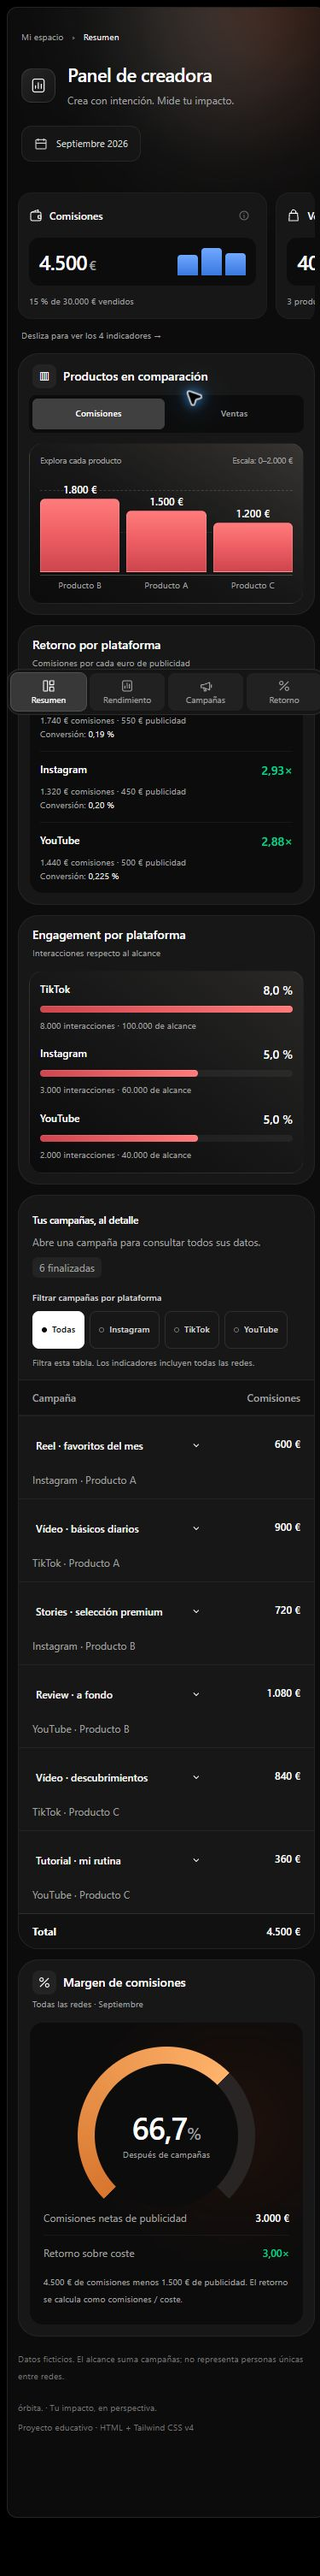
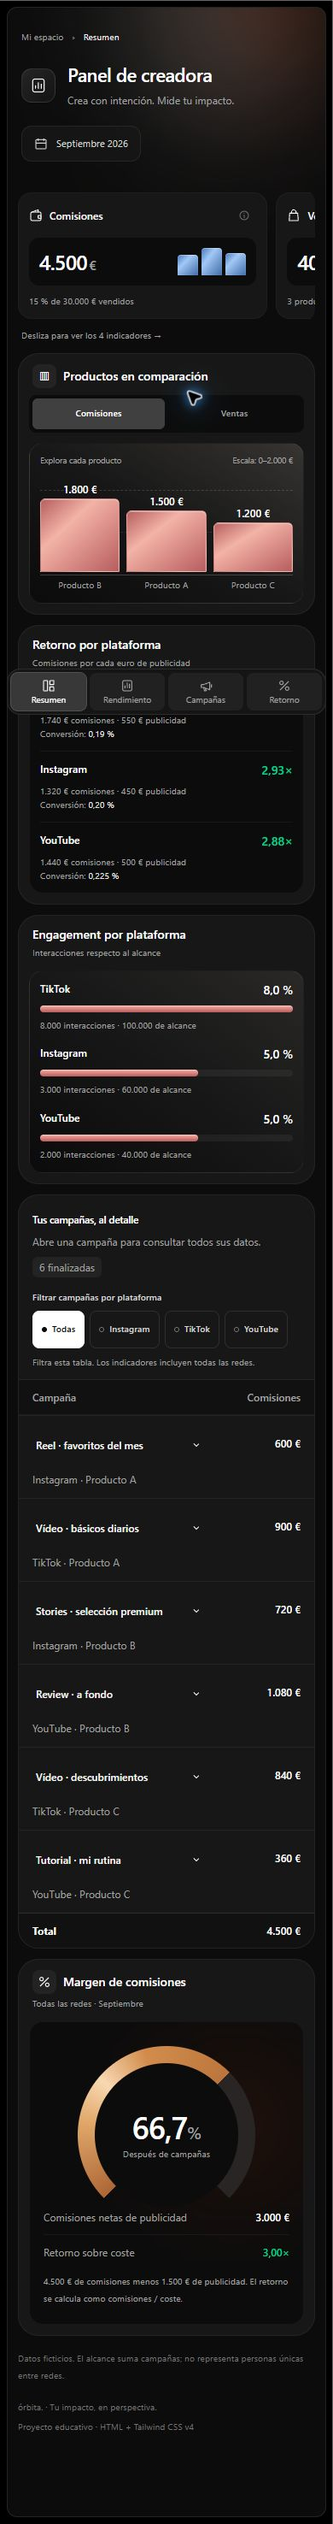
style: give chart colors a metallic finish

diff --git a/index.html b/index.html
@@ -14,7 +14,7 @@
     <script src="https://cdn.jsdelivr.net/npm/@tailwindcss/browser@4"></script>
   </head>
   <body
-    class="p-2 font-sans text-white antialiased selection:bg-linear-to-b from-[#ba96ff] to-[#8c5ce0]/40 sm:overflow-hidden sm:p-3"
+    class="p-2 font-sans text-white antialiased selection:bg-linear-to-br from-[#7959ad] via-[#d1b7f2] via-35% to-[#77539f] shadow-[inset_0_1px_0_0_#ffffff55,inset_-1px_0_0_0_#ffffff15]/40 sm:overflow-hidden sm:p-3"
   >
     <a
       href="#contenido"
@@ -261,7 +261,7 @@
                 >
                   4.500<span class="ml-0.5 text-base text-neutral-400">€</span>
                 </span>
-                <span role="group" aria-label="Comisiones por plataforma" class="-my-1.5 flex h-11 w-20 shrink-0 items-end gap-1"><button id="mini-commission-0" type="button" aria-label="Comisiones en Instagram: 1.320 €" aria-describedby="tip-mini-commission-0" popovertarget="tip-mini-commission-0" class="flex h-11 min-w-0 flex-1 items-end rounded-sm pb-1.5 hover:brightness-110 focus-visible:outline-2 focus-visible:outline-offset-2 focus-visible:outline-white [anchor-name:--mini-commission-0]"><span aria-hidden="true" class="flex h-8 w-full items-end"><span class="block w-full rounded-t-sm bg-linear-to-b from-[#70a7ff] to-[#3979df] h-[75.86%]"></span></span></button><button id="mini-commission-1" type="button" aria-label="Comisiones en TikTok: 1.740 €" aria-describedby="tip-mini-commission-1" popovertarget="tip-mini-commission-1" class="flex h-11 min-w-0 flex-1 items-end rounded-sm pb-1.5 hover:brightness-110 focus-visible:outline-2 focus-visible:outline-offset-2 focus-visible:outline-white [anchor-name:--mini-commission-1]"><span aria-hidden="true" class="flex h-8 w-full items-end"><span class="block w-full rounded-t-sm bg-linear-to-b from-[#70a7ff] to-[#3979df] h-[100%]"></span></span></button><button id="mini-commission-2" type="button" aria-label="Comisiones en YouTube: 1.440 €" aria-describedby="tip-mini-commission-2" popovertarget="tip-mini-commission-2" class="flex h-11 min-w-0 flex-1 items-end rounded-sm pb-1.5 hover:brightness-110 focus-visible:outline-2 focus-visible:outline-offset-2 focus-visible:outline-white [anchor-name:--mini-commission-2]"><span aria-hidden="true" class="flex h-8 w-full items-end"><span class="block w-full rounded-t-sm bg-linear-to-b from-[#70a7ff] to-[#3979df] h-[82.76%]"></span></span></button></span></div>
+                <span role="group" aria-label="Comisiones por plataforma" class="-my-1.5 flex h-11 w-20 shrink-0 items-end gap-1"><button id="mini-commission-0" type="button" aria-label="Comisiones en Instagram: 1.320 €" aria-describedby="tip-mini-commission-0" popovertarget="tip-mini-commission-0" class="flex h-11 min-w-0 flex-1 items-end rounded-sm pb-1.5 hover:brightness-110 focus-visible:outline-2 focus-visible:outline-offset-2 focus-visible:outline-white [anchor-name:--mini-commission-0]"><span aria-hidden="true" class="flex h-8 w-full items-end"><span class="block w-full rounded-t-sm bg-linear-to-br from-[#4778bc] via-[#a2c8f5] via-35% to-[#416da9] shadow-[inset_0_1px_0_0_#ffffff55,inset_-1px_0_0_0_#ffffff15] h-[75.86%]"></span></span></button><button id="mini-commission-1" type="button" aria-label="Comisiones en TikTok: 1.740 €" aria-describedby="tip-mini-commission-1" popovertarget="tip-mini-commission-1" class="flex h-11 min-w-0 flex-1 items-end rounded-sm pb-1.5 hover:brightness-110 focus-visible:outline-2 focus-visible:outline-offset-2 focus-visible:outline-white [anchor-name:--mini-commission-1]"><span aria-hidden="true" class="flex h-8 w-full items-end"><span class="block w-full rounded-t-sm bg-linear-to-br from-[#4778bc] via-[#a2c8f5] via-35% to-[#416da9] shadow-[inset_0_1px_0_0_#ffffff55,inset_-1px_0_0_0_#ffffff15] h-[100%]"></span></span></button><button id="mini-commission-2" type="button" aria-label="Comisiones en YouTube: 1.440 €" aria-describedby="tip-mini-commission-2" popovertarget="tip-mini-commission-2" class="flex h-11 min-w-0 flex-1 items-end rounded-sm pb-1.5 hover:brightness-110 focus-visible:outline-2 focus-visible:outline-offset-2 focus-visible:outline-white [anchor-name:--mini-commission-2]"><span aria-hidden="true" class="flex h-8 w-full items-end"><span class="block w-full rounded-t-sm bg-linear-to-br from-[#4778bc] via-[#a2c8f5] via-35% to-[#416da9] shadow-[inset_0_1px_0_0_#ffffff55,inset_-1px_0_0_0_#ffffff15] h-[82.76%]"></span></span></button></span></div>
               <p class="mt-2.5 text-[0.65rem] leading-4 text-neutral-400">
                 15 % de 30.000 € vendidos
               </p>
@@ -327,7 +327,7 @@
                 >
                   400<span class="ml-0.5 text-base text-neutral-400"></span>
                 </span>
-                <span role="group" aria-label="Ventas por plataforma" class="-my-1.5 flex h-11 w-20 shrink-0 items-end gap-1"><button id="mini-sales-0" type="button" aria-label="Ventas en Instagram: 120 ventas" aria-describedby="tip-mini-sales-0" popovertarget="tip-mini-sales-0" class="flex h-11 min-w-0 flex-1 items-end rounded-sm pb-1.5 hover:brightness-110 focus-visible:outline-2 focus-visible:outline-offset-2 focus-visible:outline-white [anchor-name:--mini-sales-0]"><span aria-hidden="true" class="flex h-8 w-full items-end"><span class="block w-full rounded-t-sm bg-linear-to-b from-[#ba96ff] to-[#8c5ce0] h-[63.16%]"></span></span></button><button id="mini-sales-1" type="button" aria-label="Ventas en TikTok: 190 ventas" aria-describedby="tip-mini-sales-1" popovertarget="tip-mini-sales-1" class="flex h-11 min-w-0 flex-1 items-end rounded-sm pb-1.5 hover:brightness-110 focus-visible:outline-2 focus-visible:outline-offset-2 focus-visible:outline-white [anchor-name:--mini-sales-1]"><span aria-hidden="true" class="flex h-8 w-full items-end"><span class="block w-full rounded-t-sm bg-linear-to-b from-[#ba96ff] to-[#8c5ce0] h-[100%]"></span></span></button><button id="mini-sales-2" type="button" aria-label="Ventas en YouTube: 90 ventas" aria-describedby="tip-mini-sales-2" popovertarget="tip-mini-sales-2" class="flex h-11 min-w-0 flex-1 items-end rounded-sm pb-1.5 hover:brightness-110 focus-visible:outline-2 focus-visible:outline-offset-2 focus-visible:outline-white [anchor-name:--mini-sales-2]"><span aria-hidden="true" class="flex h-8 w-full items-end"><span class="block w-full rounded-t-sm bg-linear-to-b from-[#ba96ff] to-[#8c5ce0] h-[47.37%]"></span></span></button></span></div>
+                <span role="group" aria-label="Ventas por plataforma" class="-my-1.5 flex h-11 w-20 shrink-0 items-end gap-1"><button id="mini-sales-0" type="button" aria-label="Ventas en Instagram: 120 ventas" aria-describedby="tip-mini-sales-0" popovertarget="tip-mini-sales-0" class="flex h-11 min-w-0 flex-1 items-end rounded-sm pb-1.5 hover:brightness-110 focus-visible:outline-2 focus-visible:outline-offset-2 focus-visible:outline-white [anchor-name:--mini-sales-0]"><span aria-hidden="true" class="flex h-8 w-full items-end"><span class="block w-full rounded-t-sm bg-linear-to-br from-[#7959ad] via-[#d1b7f2] via-35% to-[#77539f] shadow-[inset_0_1px_0_0_#ffffff55,inset_-1px_0_0_0_#ffffff15] h-[63.16%]"></span></span></button><button id="mini-sales-1" type="button" aria-label="Ventas en TikTok: 190 ventas" aria-describedby="tip-mini-sales-1" popovertarget="tip-mini-sales-1" class="flex h-11 min-w-0 flex-1 items-end rounded-sm pb-1.5 hover:brightness-110 focus-visible:outline-2 focus-visible:outline-offset-2 focus-visible:outline-white [anchor-name:--mini-sales-1]"><span aria-hidden="true" class="flex h-8 w-full items-end"><span class="block w-full rounded-t-sm bg-linear-to-br from-[#7959ad] via-[#d1b7f2] via-35% to-[#77539f] shadow-[inset_0_1px_0_0_#ffffff55,inset_-1px_0_0_0_#ffffff15] h-[100%]"></span></span></button><button id="mini-sales-2" type="button" aria-label="Ventas en YouTube: 90 ventas" aria-describedby="tip-mini-sales-2" popovertarget="tip-mini-sales-2" class="flex h-11 min-w-0 flex-1 items-end rounded-sm pb-1.5 hover:brightness-110 focus-visible:outline-2 focus-visible:outline-offset-2 focus-visible:outline-white [anchor-name:--mini-sales-2]"><span aria-hidden="true" class="flex h-8 w-full items-end"><span class="block w-full rounded-t-sm bg-linear-to-br from-[#7959ad] via-[#d1b7f2] via-35% to-[#77539f] shadow-[inset_0_1px_0_0_#ffffff55,inset_-1px_0_0_0_#ffffff15] h-[47.37%]"></span></span></button></span></div>
               <p class="mt-2.5 text-[0.65rem] leading-4 text-neutral-400">
                 3 productos promocionados
               </p>
@@ -392,7 +392,7 @@
                 >
                   0,20<span class="ml-0.5 text-base text-neutral-400">%</span>
                 </span>
-                <span role="group" aria-label="Conversión por plataforma" class="-my-1.5 flex h-11 w-20 shrink-0 items-end gap-1"><button id="mini-conversion-0" type="button" aria-label="Conversión en Instagram: 0,20 %" aria-describedby="tip-mini-conversion-0" popovertarget="tip-mini-conversion-0" class="flex h-11 min-w-0 flex-1 items-end rounded-sm pb-1.5 hover:brightness-110 focus-visible:outline-2 focus-visible:outline-offset-2 focus-visible:outline-white [anchor-name:--mini-conversion-0]"><span aria-hidden="true" class="flex h-8 w-full items-end"><span class="block w-full rounded-t-sm bg-linear-to-b from-[#ffb36b] to-[#e08036] h-[88.89%]"></span></span></button><button id="mini-conversion-1" type="button" aria-label="Conversión en TikTok: 0,19 %" aria-describedby="tip-mini-conversion-1" popovertarget="tip-mini-conversion-1" class="flex h-11 min-w-0 flex-1 items-end rounded-sm pb-1.5 hover:brightness-110 focus-visible:outline-2 focus-visible:outline-offset-2 focus-visible:outline-white [anchor-name:--mini-conversion-1]"><span aria-hidden="true" class="flex h-8 w-full items-end"><span class="block w-full rounded-t-sm bg-linear-to-b from-[#ffb36b] to-[#e08036] h-[84.44%]"></span></span></button><button id="mini-conversion-2" type="button" aria-label="Conversión en YouTube: 0,225 %" aria-describedby="tip-mini-conversion-2" popovertarget="tip-mini-conversion-2" class="flex h-11 min-w-0 flex-1 items-end rounded-sm pb-1.5 hover:brightness-110 focus-visible:outline-2 focus-visible:outline-offset-2 focus-visible:outline-white [anchor-name:--mini-conversion-2]"><span aria-hidden="true" class="flex h-8 w-full items-end"><span class="block w-full rounded-t-sm bg-linear-to-b from-[#ffb36b] to-[#e08036] h-[100%]"></span></span></button></span></div>
+                <span role="group" aria-label="Conversión por plataforma" class="-my-1.5 flex h-11 w-20 shrink-0 items-end gap-1"><button id="mini-conversion-0" type="button" aria-label="Conversión en Instagram: 0,20 %" aria-describedby="tip-mini-conversion-0" popovertarget="tip-mini-conversion-0" class="flex h-11 min-w-0 flex-1 items-end rounded-sm pb-1.5 hover:brightness-110 focus-visible:outline-2 focus-visible:outline-offset-2 focus-visible:outline-white [anchor-name:--mini-conversion-0]"><span aria-hidden="true" class="flex h-8 w-full items-end"><span class="block w-full rounded-t-sm bg-linear-to-br from-[#b9753a] via-[#f2cb9c] via-35% to-[#b16c35] shadow-[inset_0_1px_0_0_#ffffff55,inset_-1px_0_0_0_#ffffff15] h-[88.89%]"></span></span></button><button id="mini-conversion-1" type="button" aria-label="Conversión en TikTok: 0,19 %" aria-describedby="tip-mini-conversion-1" popovertarget="tip-mini-conversion-1" class="flex h-11 min-w-0 flex-1 items-end rounded-sm pb-1.5 hover:brightness-110 focus-visible:outline-2 focus-visible:outline-offset-2 focus-visible:outline-white [anchor-name:--mini-conversion-1]"><span aria-hidden="true" class="flex h-8 w-full items-end"><span class="block w-full rounded-t-sm bg-linear-to-br from-[#b9753a] via-[#f2cb9c] via-35% to-[#b16c35] shadow-[inset_0_1px_0_0_#ffffff55,inset_-1px_0_0_0_#ffffff15] h-[84.44%]"></span></span></button><button id="mini-conversion-2" type="button" aria-label="Conversión en YouTube: 0,225 %" aria-describedby="tip-mini-conversion-2" popovertarget="tip-mini-conversion-2" class="flex h-11 min-w-0 flex-1 items-end rounded-sm pb-1.5 hover:brightness-110 focus-visible:outline-2 focus-visible:outline-offset-2 focus-visible:outline-white [anchor-name:--mini-conversion-2]"><span aria-hidden="true" class="flex h-8 w-full items-end"><span class="block w-full rounded-t-sm bg-linear-to-br from-[#b9753a] via-[#f2cb9c] via-35% to-[#b16c35] shadow-[inset_0_1px_0_0_#ffffff55,inset_-1px_0_0_0_#ffffff15] h-[100%]"></span></span></button></span></div>
               <p class="mt-2.5 text-[0.65rem] leading-4 text-neutral-400">
                 400 ventas / 200.000 de alcance
               </p>
@@ -461,7 +461,7 @@
                 >
                   6,5<span class="ml-0.5 text-base text-neutral-400">%</span>
                 </span>
-                <span role="group" aria-label="Engagement por plataforma" class="-my-1.5 flex h-11 w-20 shrink-0 items-end gap-1"><button id="mini-engagement-0" type="button" aria-label="Engagement en Instagram: 5 %" aria-describedby="tip-mini-engagement-0" popovertarget="tip-mini-engagement-0" class="flex h-11 min-w-0 flex-1 items-end rounded-sm pb-1.5 hover:brightness-110 focus-visible:outline-2 focus-visible:outline-offset-2 focus-visible:outline-white [anchor-name:--mini-engagement-0]"><span aria-hidden="true" class="flex h-8 w-full items-end"><span class="block w-full rounded-t-sm bg-linear-to-b from-[#ff7b7b] via-[#ed5e64] to-[#ce454e] h-[62.5%]"></span></span></button><button id="mini-engagement-1" type="button" aria-label="Engagement en TikTok: 8 %" aria-describedby="tip-mini-engagement-1" popovertarget="tip-mini-engagement-1" class="flex h-11 min-w-0 flex-1 items-end rounded-sm pb-1.5 hover:brightness-110 focus-visible:outline-2 focus-visible:outline-offset-2 focus-visible:outline-white [anchor-name:--mini-engagement-1]"><span aria-hidden="true" class="flex h-8 w-full items-end"><span class="block w-full rounded-t-sm bg-linear-to-b from-[#ff7b7b] via-[#ed5e64] to-[#ce454e] h-[100%]"></span></span></button><button id="mini-engagement-2" type="button" aria-label="Engagement en YouTube: 5 %" aria-describedby="tip-mini-engagement-2" popovertarget="tip-mini-engagement-2" class="flex h-11 min-w-0 flex-1 items-end rounded-sm pb-1.5 hover:brightness-110 focus-visible:outline-2 focus-visible:outline-offset-2 focus-visible:outline-white [anchor-name:--mini-engagement-2]"><span aria-hidden="true" class="flex h-8 w-full items-end"><span class="block w-full rounded-t-sm bg-linear-to-b from-[#ff7b7b] via-[#ed5e64] to-[#ce454e] h-[62.5%]"></span></span></button></span></div>
+                <span role="group" aria-label="Engagement por plataforma" class="-my-1.5 flex h-11 w-20 shrink-0 items-end gap-1"><button id="mini-engagement-0" type="button" aria-label="Engagement en Instagram: 5 %" aria-describedby="tip-mini-engagement-0" popovertarget="tip-mini-engagement-0" class="flex h-11 min-w-0 flex-1 items-end rounded-sm pb-1.5 hover:brightness-110 focus-visible:outline-2 focus-visible:outline-offset-2 focus-visible:outline-white [anchor-name:--mini-engagement-0]"><span aria-hidden="true" class="flex h-8 w-full items-end"><span class="block w-full rounded-t-sm bg-linear-to-br from-[#b65f60] via-[#f3b3a7] via-35% to-[#b75d60] shadow-[inset_0_1px_0_0_#ffffff55,inset_-1px_0_0_0_#ffffff15] h-[62.5%]"></span></span></button><button id="mini-engagement-1" type="button" aria-label="Engagement en TikTok: 8 %" aria-describedby="tip-mini-engagement-1" popovertarget="tip-mini-engagement-1" class="flex h-11 min-w-0 flex-1 items-end rounded-sm pb-1.5 hover:brightness-110 focus-visible:outline-2 focus-visible:outline-offset-2 focus-visible:outline-white [anchor-name:--mini-engagement-1]"><span aria-hidden="true" class="flex h-8 w-full items-end"><span class="block w-full rounded-t-sm bg-linear-to-br from-[#b65f60] via-[#f3b3a7] via-35% to-[#b75d60] shadow-[inset_0_1px_0_0_#ffffff55,inset_-1px_0_0_0_#ffffff15] h-[100%]"></span></span></button><button id="mini-engagement-2" type="button" aria-label="Engagement en YouTube: 5 %" aria-describedby="tip-mini-engagement-2" popovertarget="tip-mini-engagement-2" class="flex h-11 min-w-0 flex-1 items-end rounded-sm pb-1.5 hover:brightness-110 focus-visible:outline-2 focus-visible:outline-offset-2 focus-visible:outline-white [anchor-name:--mini-engagement-2]"><span aria-hidden="true" class="flex h-8 w-full items-end"><span class="block w-full rounded-t-sm bg-linear-to-br from-[#b65f60] via-[#f3b3a7] via-35% to-[#b75d60] shadow-[inset_0_1px_0_0_#ffffff55,inset_-1px_0_0_0_#ffffff15] h-[62.5%]"></span></span></button></span></div>
               <p class="mt-2.5 text-[0.65rem] leading-4 text-neutral-400">
                 13.000 interacciones
               </p>
@@ -567,13 +567,13 @@
                       >
                         <span class="relative block h-24"
                           ><span
-                            class="bar absolute inset-x-0 bottom-0 block h-[90%] rounded-t-md border border-white/15 bg-linear-to-b from-[#ff7b7b] via-[#ed5e64] to-[#ce454e] group-hover/bar:brightness-110 [article:has(#chart-sales:checked)_&]:hidden"
+                            class="bar absolute inset-x-0 bottom-0 block h-[90%] rounded-t-md border border-white/15 bg-linear-to-br from-[#b65f60] via-[#f3b3a7] via-35% to-[#b75d60] shadow-[inset_0_1px_0_0_#ffffff55,inset_-1px_0_0_0_#ffffff15] group-hover/bar:brightness-110 [article:has(#chart-sales:checked)_&]:hidden"
                             ><span
                               class="absolute -top-5 inset-x-0 whitespace-nowrap text-center text-xs font-medium tabular-nums"
                               >1.800 €</span
                             ></span
                           ><span
-                            class="bar absolute inset-x-0 bottom-0 hidden h-[50%] rounded-t-md border border-white/15 bg-linear-to-b from-[#ff7b7b] via-[#ed5e64] to-[#ce454e] group-hover/bar:brightness-110 [article:has(#chart-sales:checked)_&]:block"
+                            class="bar absolute inset-x-0 bottom-0 hidden h-[50%] rounded-t-md border border-white/15 bg-linear-to-br from-[#b65f60] via-[#f3b3a7] via-35% to-[#b75d60] shadow-[inset_0_1px_0_0_#ffffff55,inset_-1px_0_0_0_#ffffff15] group-hover/bar:brightness-110 [article:has(#chart-sales:checked)_&]:block"
                             ><span
                               class="absolute -top-5 inset-x-0 text-center text-xs font-medium tabular-nums"
                               >100</span
@@ -616,13 +616,13 @@
                       >
                         <span class="relative block h-24"
                           ><span
-                            class="bar absolute inset-x-0 bottom-0 block h-[75%] rounded-t-md border border-white/15 bg-linear-to-b from-[#ff7b7b] via-[#ed5e64] to-[#ce454e] group-hover/bar:brightness-110 [article:has(#chart-sales:checked)_&]:hidden"
+                            class="bar absolute inset-x-0 bottom-0 block h-[75%] rounded-t-md border border-white/15 bg-linear-to-br from-[#b65f60] via-[#f3b3a7] via-35% to-[#b75d60] shadow-[inset_0_1px_0_0_#ffffff55,inset_-1px_0_0_0_#ffffff15] group-hover/bar:brightness-110 [article:has(#chart-sales:checked)_&]:hidden"
                             ><span
                               class="absolute -top-5 inset-x-0 whitespace-nowrap text-center text-xs font-medium tabular-nums"
                               >1.500 €</span
                             ></span
                           ><span
-                            class="bar absolute inset-x-0 bottom-0 hidden h-[100%] rounded-t-md border border-white/15 bg-linear-to-b from-[#ff7b7b] via-[#ed5e64] to-[#ce454e] group-hover/bar:brightness-110 [article:has(#chart-sales:checked)_&]:block"
+                            class="bar absolute inset-x-0 bottom-0 hidden h-[100%] rounded-t-md border border-white/15 bg-linear-to-br from-[#b65f60] via-[#f3b3a7] via-35% to-[#b75d60] shadow-[inset_0_1px_0_0_#ffffff55,inset_-1px_0_0_0_#ffffff15] group-hover/bar:brightness-110 [article:has(#chart-sales:checked)_&]:block"
                             ><span
                               class="absolute -top-5 inset-x-0 text-center text-xs font-medium tabular-nums"
                               >200</span
@@ -665,13 +665,13 @@
                       >
                         <span class="relative block h-24"
                           ><span
-                            class="bar absolute inset-x-0 bottom-0 block h-[60%] rounded-t-md border border-white/15 bg-linear-to-b from-[#ff7b7b] via-[#ed5e64] to-[#ce454e] group-hover/bar:brightness-110 [article:has(#chart-sales:checked)_&]:hidden"
+                            class="bar absolute inset-x-0 bottom-0 block h-[60%] rounded-t-md border border-white/15 bg-linear-to-br from-[#b65f60] via-[#f3b3a7] via-35% to-[#b75d60] shadow-[inset_0_1px_0_0_#ffffff55,inset_-1px_0_0_0_#ffffff15] group-hover/bar:brightness-110 [article:has(#chart-sales:checked)_&]:hidden"
                             ><span
                               class="absolute -top-5 inset-x-0 whitespace-nowrap text-center text-xs font-medium tabular-nums"
                               >1.200 €</span
                             ></span
                           ><span
-                            class="bar absolute inset-x-0 bottom-0 hidden h-[50%] rounded-t-md border border-white/15 bg-linear-to-b from-[#ff7b7b] via-[#ed5e64] to-[#ce454e] group-hover/bar:brightness-110 [article:has(#chart-sales:checked)_&]:block"
+                            class="bar absolute inset-x-0 bottom-0 hidden h-[50%] rounded-t-md border border-white/15 bg-linear-to-br from-[#b65f60] via-[#f3b3a7] via-35% to-[#b75d60] shadow-[inset_0_1px_0_0_#ffffff55,inset_-1px_0_0_0_#ffffff15] group-hover/bar:brightness-110 [article:has(#chart-sales:checked)_&]:block"
                             ><span
                               class="absolute -top-5 inset-x-0 text-center text-xs font-medium tabular-nums"
                               >100</span
@@ -785,7 +785,7 @@
                     aria-hidden="true"
                     class="col-span-2 h-2 rounded-full bg-white/5"
                   >
-                    <div class="h-2 w-[100%] rounded-full bg-linear-to-r from-[#ce454e] to-[#ff7b7b] shadow-[inset_0_1px_0_0_#ffffff20]"></div>
+                    <div class="h-2 w-[100%] rounded-full bg-linear-to-b from-[#f3b3a7] via-[#d9847e] to-[#b75d60] shadow-[inset_0_1px_0_0_#ffffff55]"></div>
                   </div>
                   <dd class="col-span-2 text-[0.65rem] text-neutral-400">
                     8.000 interacciones · 100.000 de alcance
@@ -800,7 +800,7 @@
                     aria-hidden="true"
                     class="col-span-2 h-2 rounded-full bg-white/5"
                   >
-                    <div class="h-2 w-[62.5%] rounded-full bg-linear-to-r from-[#ce454e] to-[#ff7b7b] shadow-[inset_0_1px_0_0_#ffffff20]"></div>
+                    <div class="h-2 w-[62.5%] rounded-full bg-linear-to-b from-[#f3b3a7] via-[#d9847e] to-[#b75d60] shadow-[inset_0_1px_0_0_#ffffff55]"></div>
                   </div>
                   <dd class="col-span-2 text-[0.65rem] text-neutral-400">
                     3.000 interacciones · 60.000 de alcance
@@ -815,7 +815,7 @@
                     aria-hidden="true"
                     class="col-span-2 h-2 rounded-full bg-white/5"
                   >
-                    <div class="h-2 w-[62.5%] rounded-full bg-linear-to-r from-[#ce454e] to-[#ff7b7b] shadow-[inset_0_1px_0_0_#ffffff20]"></div>
+                    <div class="h-2 w-[62.5%] rounded-full bg-linear-to-b from-[#f3b3a7] via-[#d9847e] to-[#b75d60] shadow-[inset_0_1px_0_0_#ffffff55]"></div>
                   </div>
                   <dd class="col-span-2 text-[0.65rem] text-neutral-400">
                     2.000 interacciones · 40.000 de alcance
@@ -1621,7 +1621,7 @@
                 class="absolute top-10 right-0 -z-10 size-40 rounded-full bg-orange-800/20 blur-3xl"
               ></div>
               <div
-                class="relative mx-auto size-52 rounded-full bg-[conic-gradient(from_225deg,#d8762e_0deg,#ffb36b_180deg,#292524_180deg_270deg,transparent_270deg_360deg)]"
+                class="relative mx-auto size-52 rounded-full bg-[conic-gradient(from_225deg,#ad6736_0deg,#e2a96b_55deg,#f8d8b2_85deg,#d28d4d_120deg,#bc763d_180deg,#292524_180deg_270deg,transparent_270deg_360deg)]"
               >
                 <div
                   class="absolute inset-5 flex flex-col items-center justify-center rounded-full bg-[#0c0c0c]"

diff --git a/README.md b/README.md
@@ -24,7 +24,7 @@ Visita http://127.0.0.1:5500. Python solo sirve los archivos durante el desarrol
 
 ## Diseño e interacción
 
-La referencia proporcionada guía el fondo negro, las tarjetas oscuras redondeadas, el reflejo cálido, las barras de color y el indicador circular cálido. La paleta de estadísticas usa azul luminoso, violeta, ámbar y coral, con degradados suaves y mayor intensidad sobre las superficies oscuras.
+La referencia proporcionada guía el fondo negro, las tarjetas oscuras redondeadas, el reflejo cálido, las barras de color y el indicador circular cálido. La paleta de estadísticas usa azul acero, violeta titanio, cobre y coral cobrizo, con reflejos diagonales y bordes iluminados que aportan un acabado metálico sobre las superficies oscuras.
 
 En móvil, los cuatro KPIs forman un grupo horizontal deslizable con ajuste por tarjeta. Se ve parte de la siguiente tarjeta y una pista breve indica cómo descubrir las demás. El grupo recibe foco y admite flechas del teclado; los botones de ayuda también llevan el foco a cada tarjeta. Solo este grupo se desplaza horizontalmente, sin ampliar el ancho de la página. Desde sm se muestran dos columnas y desde lg, cuatro.
 
